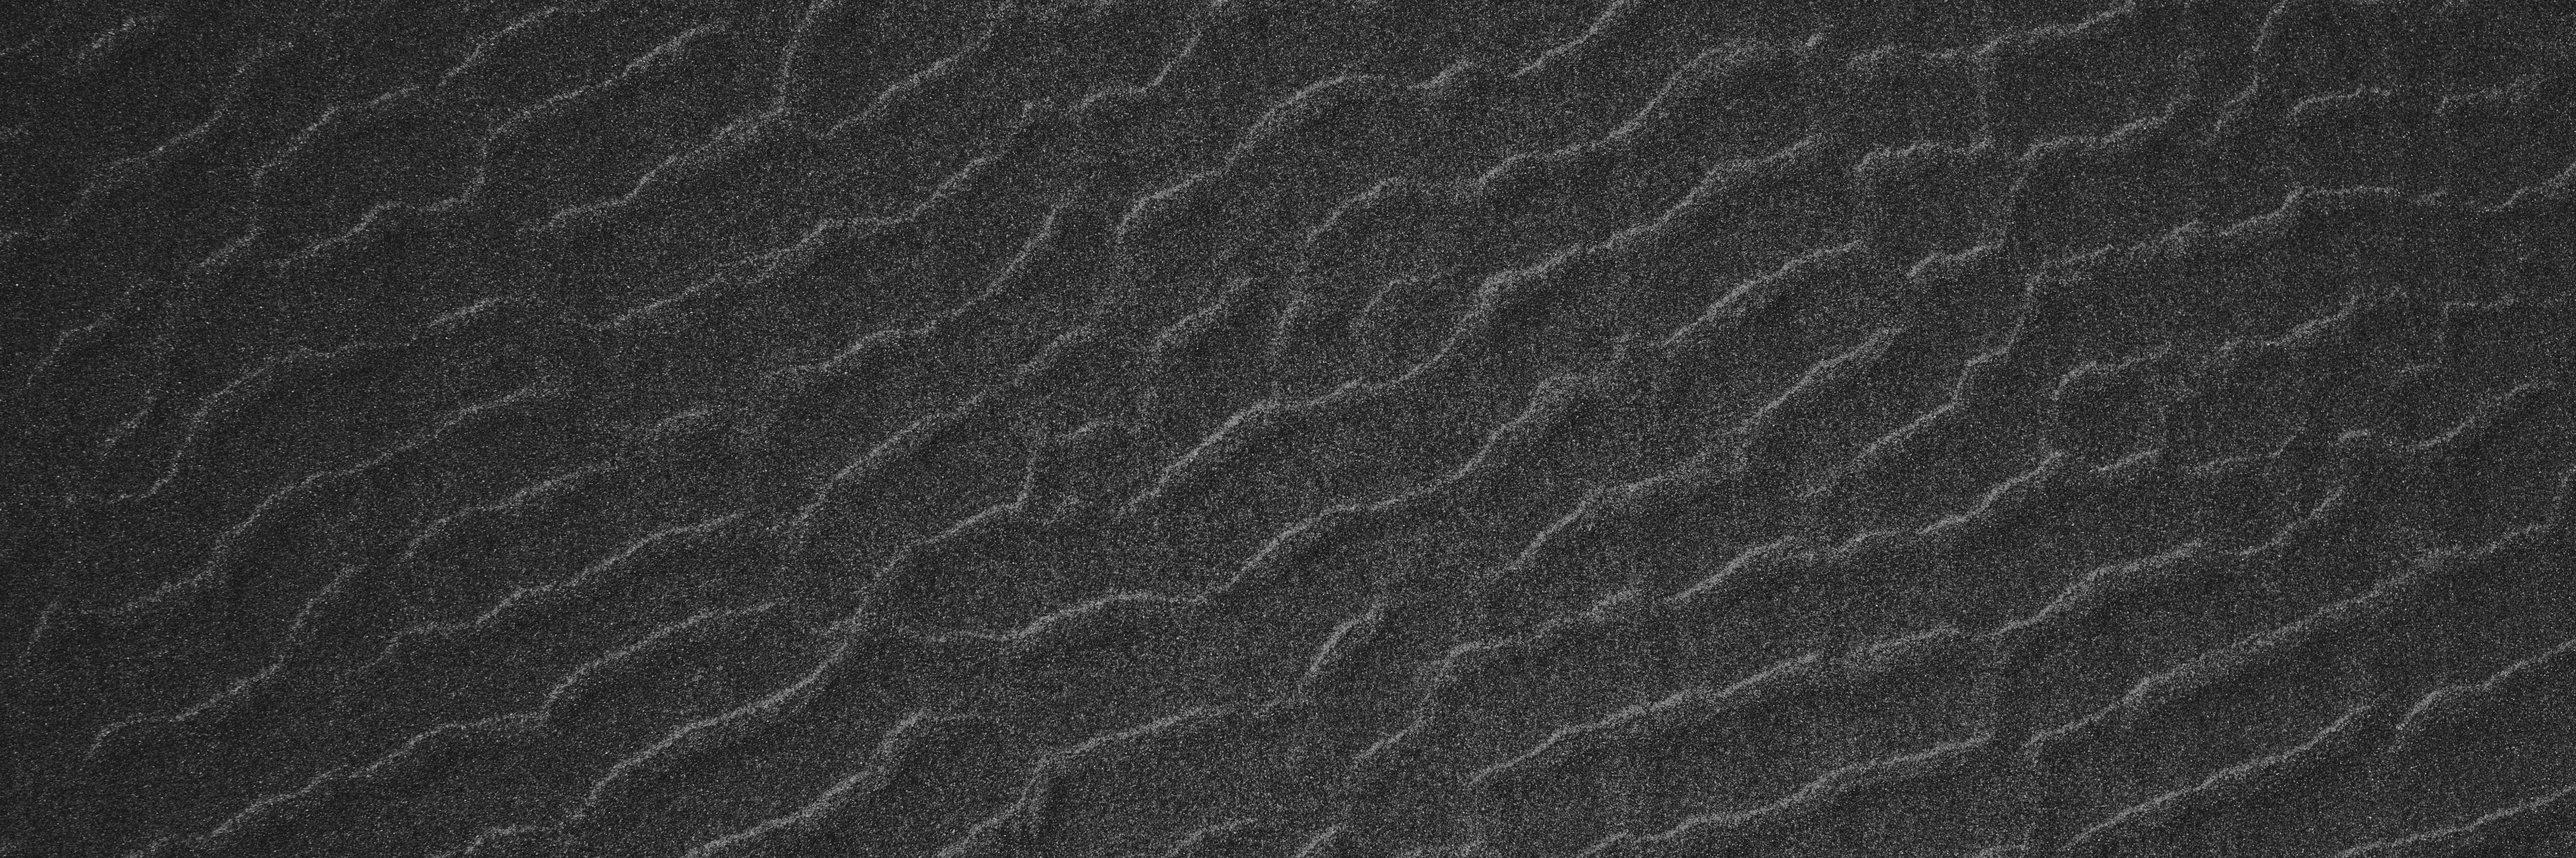
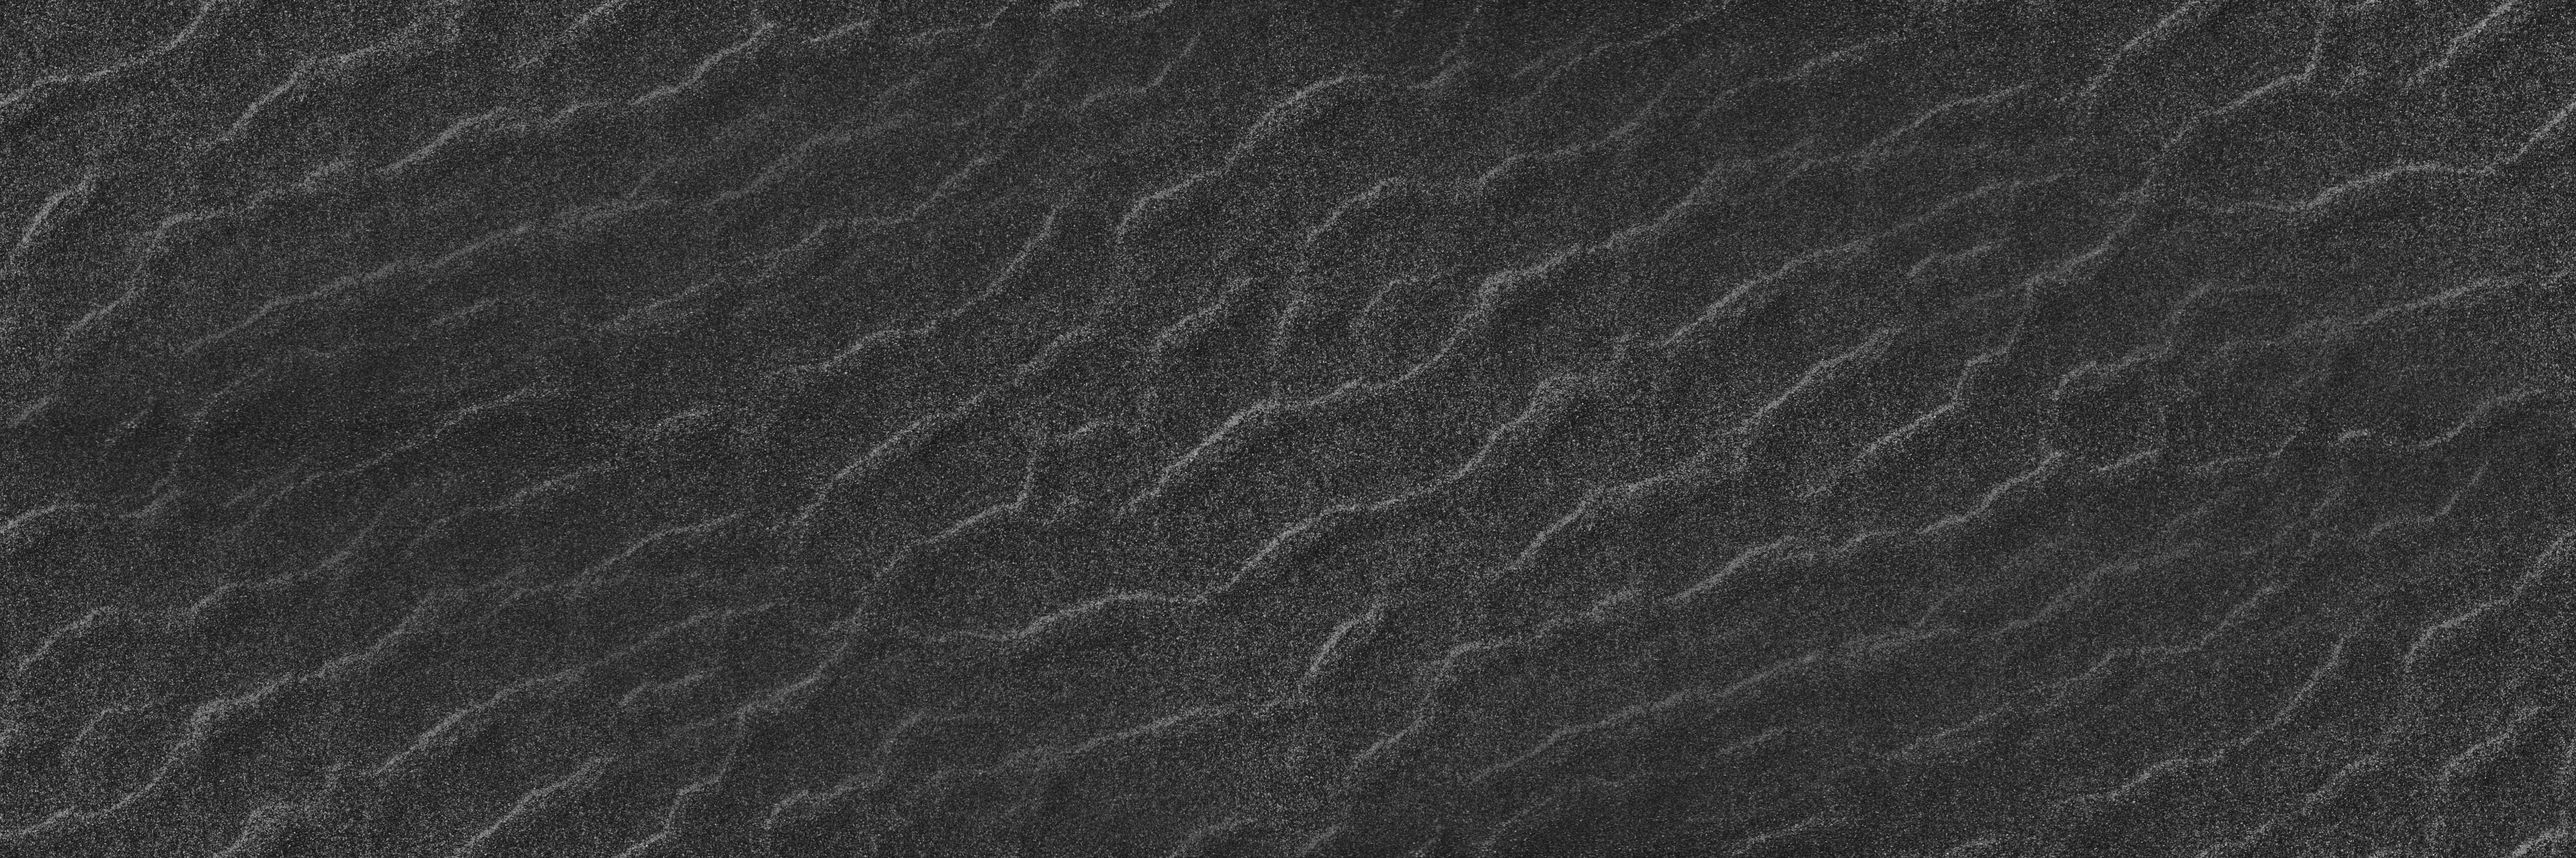
update

Changed region(s): [[0.0, 0.0, 1.0, 1.0]]

diff --git a/src/Home.vue b/src/Home.vue
@@ -10,7 +10,6 @@
           </ul>
         </nav>
       </div>
-      <img id="image" src="@/assets/main-background-4.jpg"/>
       <div id="business-text">
         <h1>Business and IT Services</h1>
       </div>
@@ -30,7 +29,10 @@ export default {
 
 #head {
   display: block;
-  position: relative;
+  background-image: url(~@/assets/main-background-4.jpg);
+  background-repeat: repeat;
+  height: 100vh;
+  width: 100vw;
 }
 
 #navbar {
@@ -67,6 +69,8 @@ export default {
 
 #image {
   max-width: 100%;
+  max-height: 100vh;
+  margin: auto;
 }
 
 #business-text {
